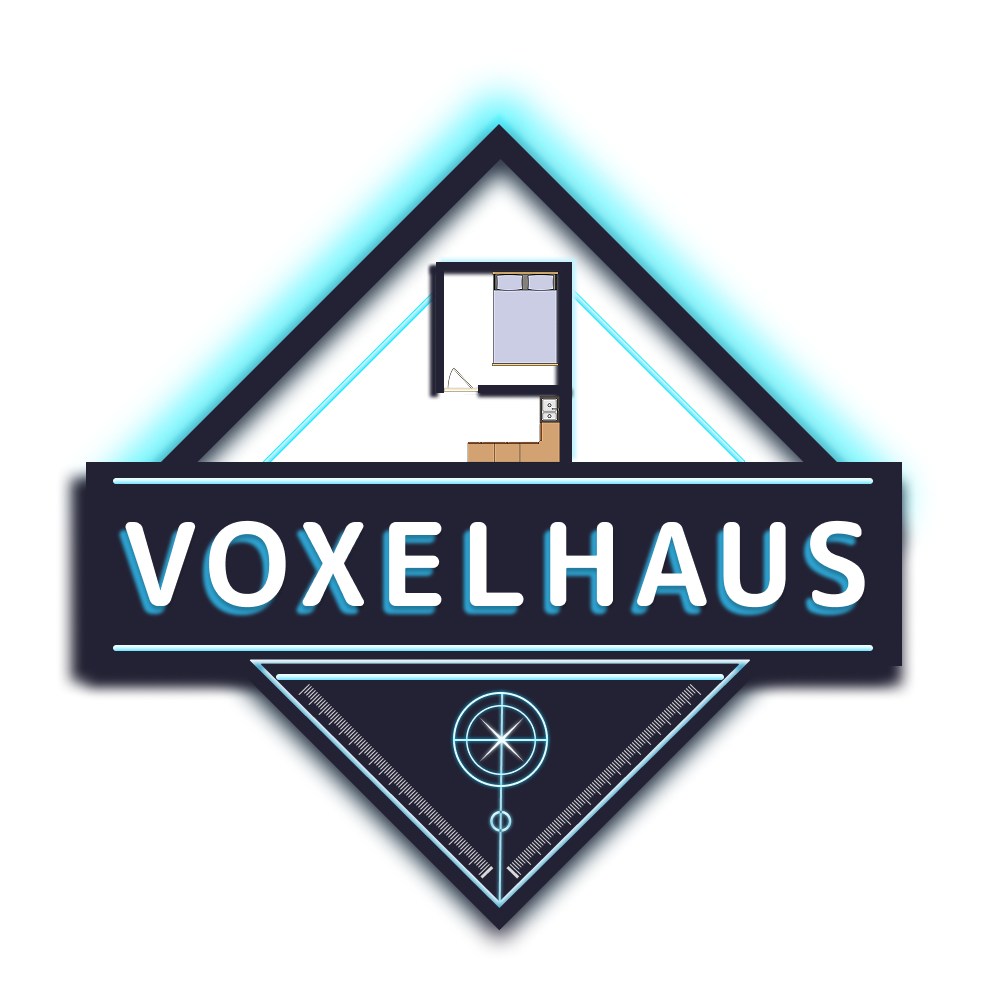
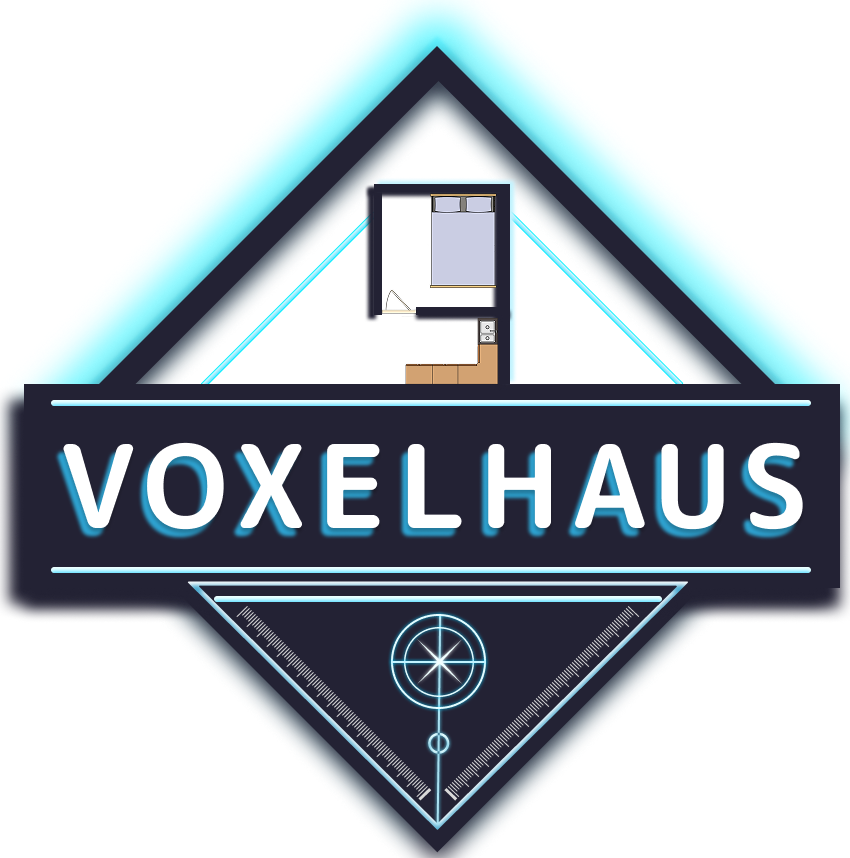
..

diff --git a/src/components/Navbar.jsx b/src/components/Navbar.jsx
@@ -103,7 +103,7 @@ const Navbar = () => {
               >
                 <Link to="/" className="flex items-center">
                   <div className="relative">
-                    <div className="w-16 h-16 rounded-xl overflow-hidden">
+                    <div className="w-25 h-25 rounded-xl overflow-hidden">
                       <img 
                         src={logoImage} 
                         alt="Voxelhaus Logo" 
@@ -246,7 +246,7 @@ const Navbar = () => {
               >
                 <Link to="/" className="flex items-center">
                   <div className="relative">
-                    <div className="w-10 h-10 rounded-xl overflow-hidden">
+                    <div className="w-20 h-20 rounded-xl overflow-hidden">
                       <img 
                         src={logoImage} 
                         alt="Voxelhaus Logo" 
@@ -446,29 +446,6 @@ const Navbar = () => {
                   })}
                 </div>
 
-                {/* Mobile CTA */}
-                <motion.div
-                  initial={{ opacity: 0, y: 20 }}
-                  animate={{ opacity: 1, y: 0 }}
-                  transition={{ delay: 0.8 }}
-                  className="pt-8 border-t border-white/20"
-                >
-                  <Link
-                    to="/contact"
-                    onClick={() => setIsOpen(false)}
-                    className="w-full flex items-center justify-center space-x-4 p-6 rounded-2xl font-bold text-xl transition-all duration-300 group relative overflow-hidden"
-                    style={{
-                                 background: 'linear-gradient(135deg, #0099FF 0%, #0066CC 100%)',
-                      boxShadow: '0 0 40px rgba(0, 240, 255, 0.5)',
-                    }}
-                  >
-                    <Phone size={24} className="group-hover:scale-110 transition-transform duration-300" />
-                    <span>Get Free Quote</span>
-                    
-                    {/* Animated background effect */}
-                    <div className="absolute inset-0 bg-white/20 opacity-0 group-hover:opacity-100 transition-opacity duration-300 transform -skew-x-12 translate-x-full group-hover:translate-x-0" />
-                  </Link>
-                </motion.div>
               </div>
             </motion.div>
           </motion.div>

diff --git a/src/components/Footer.jsx b/src/components/Footer.jsx
@@ -11,7 +11,7 @@ import {
   Linkedin,
   ArrowRight
 } from 'lucide-react';
-import logoImage from '../assets/logo.png';
+import logoImage from '../assets/Voxelhaus.png';
 
 const Footer = () => {
   const currentYear = new Date().getFullYear();
@@ -101,7 +101,7 @@ const Footer = () => {
           {/* Company Info */}
           <div className="space-y-6">
             <div className="flex items-center space-x-3">
-              <div className="w-16 h-16 rounded-lg overflow-hidden ml-4">
+              <div className="w-24 h-24 rounded-lg overflow-hidden ml-4">
                 <img 
                   src={logoImage} 
                   alt="Voxelhaus Logo" 
